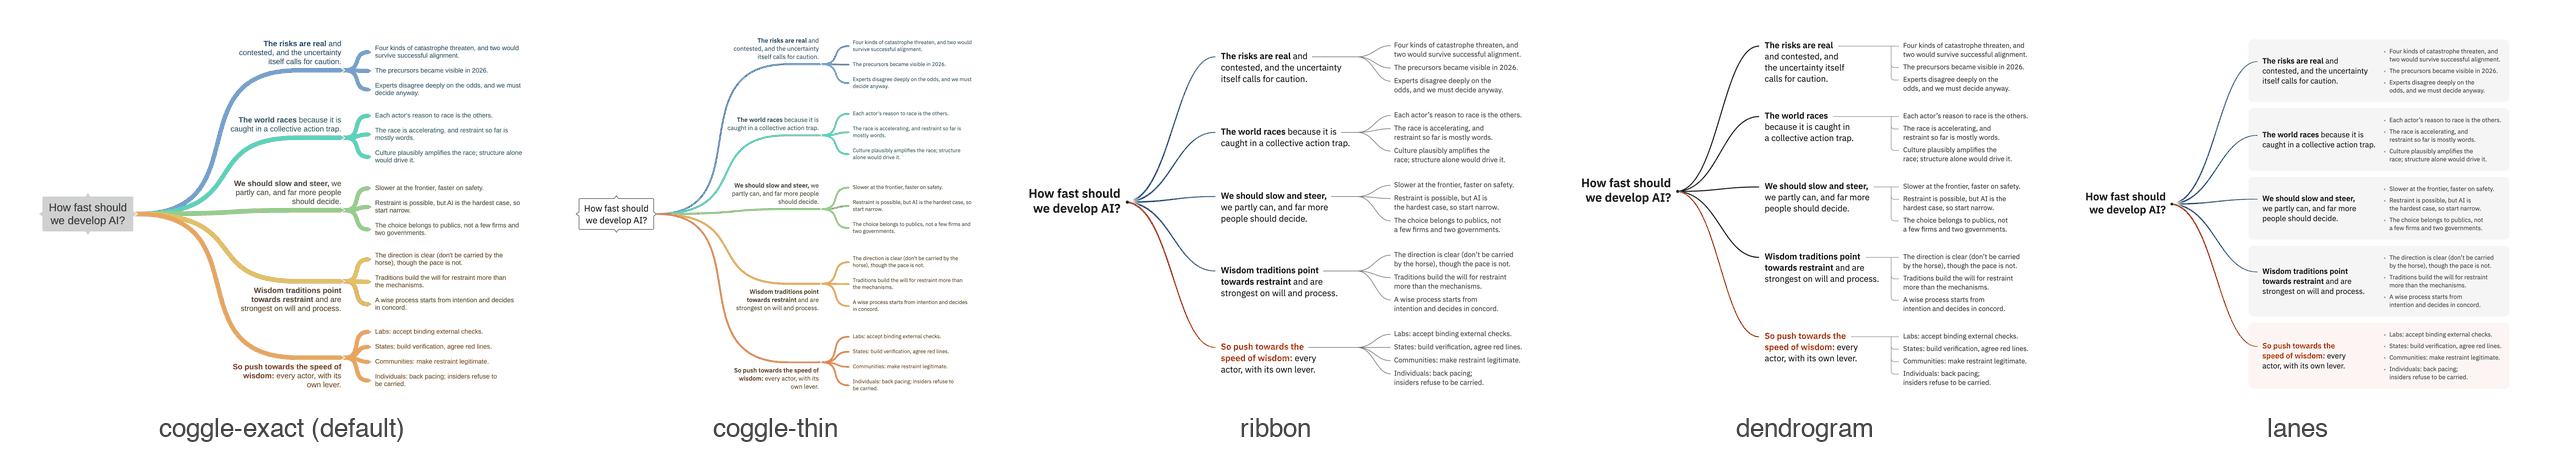
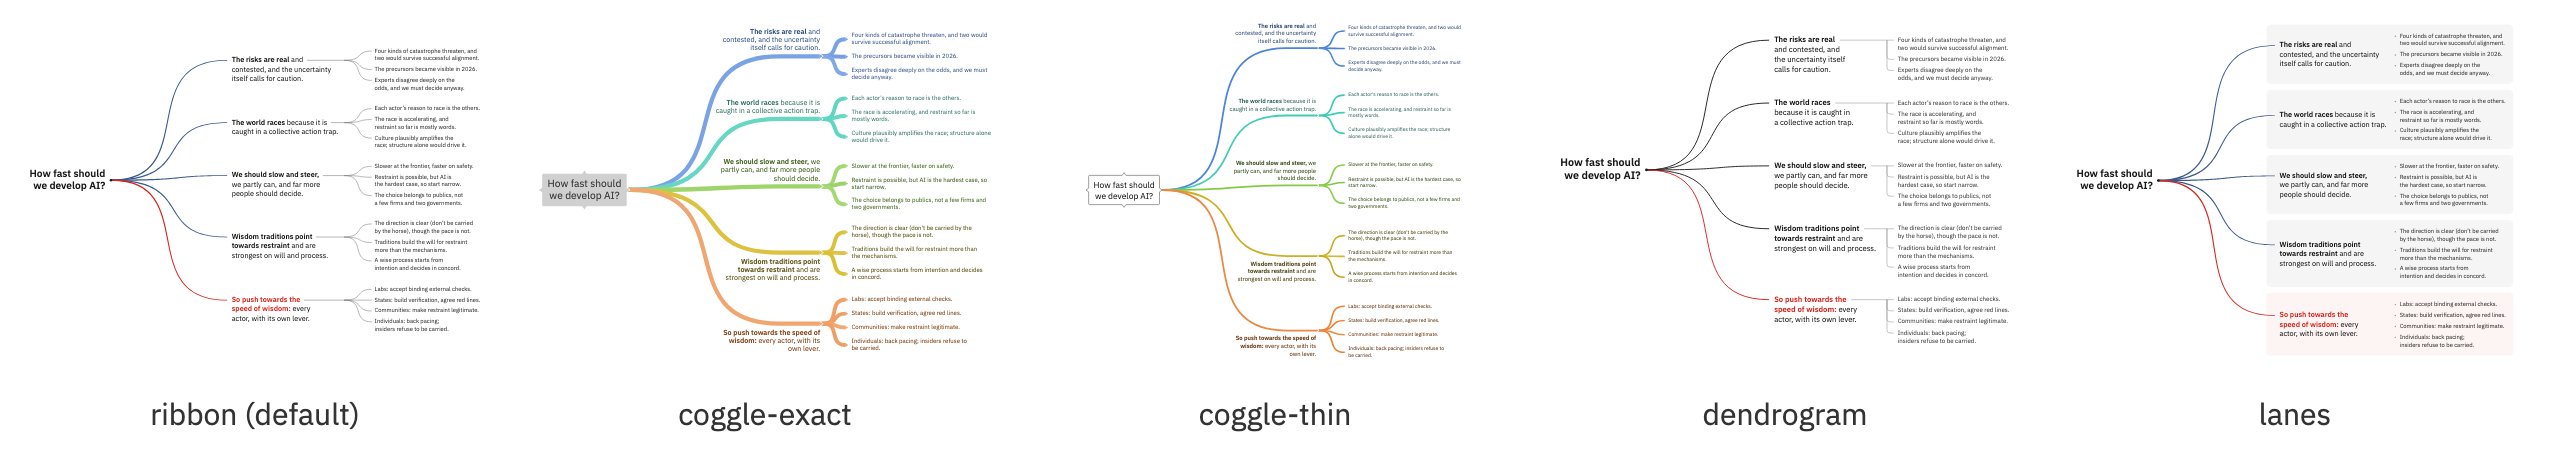
Ribbon is the default style; --curve coggle the default curve, over the curvature rule's run
- ribbon, dendrogram, lanes: --curve coggle by default; the old curve is --curve ribbon (alias current).
  The level-1 run follows the curvature rule (shared.js coggleReach): at least 320 px at the 20 px
  level-1 size, lengthened to keep the outer aspect <= 1.3 (capped at 480), never past aspect 3.
  Q2 no longer has vertical "pipe" outer branches (1225 -> 1335 px wide).
- CLI: no --style renders ribbon (named after the tree); coggle-only flags without a coggle style
  are usage errors; a note when a tree is deeper than the two levels these styles draw.
- README hero (hero-ribbon.png) and styles strip regenerated; SKILL.md, --help, Wise AI brief,
  curvature note updated. Bead tree_render-5q0.8 closed; three-level trees: tree_render-5q0.9.

Claude-Session: https://claude.ai/code/session_01KA2bCsgAQ4qzr35Ys3Hhik

diff --git a/skills/tree-render/render/bin/render.js b/skills/tree-render/render/bin/render.js
@@ -22,9 +22,9 @@ const USAGE = `Usage: tree-render <tree.md|tree.json> [--style NAME] [options]
                   the older canvas engine and styles (framed cards, carousel, interactive page)
 
 Styles (--style NAME):
-  coggle-exact   the default: Coggle's look, thick coloured S-curves, grey root box (Arimo)
+  ribbon         the default: bold root on a dot, tapered ribbons to each answer, hairlines to its points
+  coggle-exact   Coggle's look, thick coloured S-curves, grey root box (Arimo)
   coggle-thin    Coggle's layout with IBM Plex Sans, half-width branches, outlined root
-  ribbon         bold root on a dot, tapered ribbons to each answer, hairlines to its points
   dendrogram     bold root on a dot, dark S-curves to each answer, rounded elbows to its points
   lanes          ribbon's root and ribbons, each answer and its points on a soft grey band
   (other names in render/styles/ are legacy: see --help legacy)
@@ -55,9 +55,11 @@ Options (ribbon, dendrogram, lanes):
   --root-style dot|centre|box|outline
                         the root question: right-aligned on a dot (default), centred on the dot,
                         in a light filled box (also --root-box) or a thin outlined box
-  --curve current|coggle|coggle-l1
-                        the branch curve: current (default), Coggle's cubic (level-1 branches and
-                        ribbon's hairlines), or Coggle's for the level-1 branches only
+  --curve coggle|coggle-l1|ribbon
+                        the branch curve: coggle (default: Coggle's S for the level-1 branches and
+                        ribbon's hairlines, over a run long enough to keep Coggle's corners),
+                        coggle-l1 (Coggle's for the level-1 branches only), or ribbon (the older,
+                        narrower S; also --curve current)
 
 Exit codes: 0 ok; 1 a branch crosses a label or text overlaps (shorten the text and render
 again); 2 usage error; 3 the PNG needs Chrome or Chromium (set CHROME=/path, or use --no-png).
@@ -96,8 +98,8 @@ needs a browser.
 
 const VALUE_FLAGS = ['root-style', 'style', 'name', 'format', 'theme', 'view', 'labels', 'depth', 'root', 'kicker', 'footer', 'out', 'scale', 'state', 'emit', 'hue', 'font', 'sizes', 'root-run', 's-run', 'palette', 'curve'];
 const BOOL_FLAGS = ['png', 'no-png', 'html', 'help', 'allow-collisions', 'root-box'];
-// Flags of the framed canvas render; with none of them (and no --style) a tree renders statically in the default style.
-// --depth is not one: it also applies to the coggle styles, so the canvas render needs --format (or another flag here) for it.
+// Flags of the framed canvas render; with none of them (and no --style) a tree renders statically in the default style
+// (ribbon). --depth is not one: it applies to the coggle styles, so the canvas render needs --format (or another flag here).
 const CANVAS_FLAGS = ['format', 'theme', 'view', 'labels', 'root', 'kicker', 'footer', 'state', 'hue', 'html'];
 
 class UsageError extends Error {}
@@ -191,11 +193,13 @@ async function main(argv) {
   }
 
   const tree = readTree(file);
-  if (COGGLE_STYLE_NAMES.includes(a.style) || (!a.style && !sub && !CANVAS_FLAGS.some(k => a[k] != null))) {
+  // No --style (and no canvas flags): the default style, ribbon, named after the tree file.
+  const defaultStyle = !a.style && !sub && !CANVAS_FLAGS.some(k => a[k] != null);
+  if (COGGLE_STYLE_NAMES.includes(a.style)) {
     const { renderCoggle } = await import('../src/coggle/render.js');
     const { FONTS } = await import('../src/coggle/styles.js');
     const { findCollisions } = await import('../src/coggle/collide.js');
-    const style = a.style || 'coggle-exact';
+    const style = a.style;
     if (a.font != null && !FONTS[a.font]) throw new UsageError(`unknown font "${a.font}" (have: ${Object.keys(FONTS).join(', ')})`);
     let sizes;
     if (a.sizes != null) {
@@ -208,7 +212,7 @@ async function main(argv) {
     if (a['s-run'] != null && !(+a['s-run'] > 0)) throw new UsageError('--s-run takes a run in px (e.g. 300)');
     if (a['s-run'] != null && a['root-run'] === 'coggle') throw new UsageError('--s-run needs --root-run short (the default)');
     if (a.palette != null && !PALETTE_NAMES.includes(a.palette)) throw new UsageError(`unknown palette "${a.palette}" (have: ${PALETTE_NAMES.join(', ')})`);
-    const r = await renderCoggle(tree, { style, font: a.font, sizes, depth: a.depth != null ? +a.depth : undefined, rootRun: a['root-run'], sRun: a['s-run'] != null ? +a['s-run'] : undefined, palette: a.palette, outDir: a.out || '.', name: a.name || (a.style ? undefined : path.basename(file).replace(/\.(md|json|markdown)$/i, '')), png: !a['no-png'], scale: +(a.scale || 2), avoidCollisions: !a['allow-collisions'] });
+    const r = await renderCoggle(tree, { style, font: a.font, sizes, depth: a.depth != null ? +a.depth : undefined, rootRun: a['root-run'], sRun: a['s-run'] != null ? +a['s-run'] : undefined, palette: a.palette, outDir: a.out || '.', name: a.name, png: !a['no-png'], scale: +(a.scale || 2), avoidCollisions: !a['allow-collisions'] });
     const b = r.L.bounds;
     const hits = a['allow-collisions'] ? [] : findCollisions(r.L);
     const extra = [a.font && `font ${a.font}`, sizes && `sizes ${sizes.join('/')}`, a.depth != null && `depth ${a.depth}`, a['root-run'] && `root run ${a['root-run']}`, a['s-run'] && `S-run ${a['s-run']}`, a.palette && `palette ${a.palette}`].filter(Boolean).join(' · ');
@@ -216,15 +220,20 @@ async function main(argv) {
     for (const h of hits) console.log(`  error overlap: branch ${h.branch} crosses label ${h.label}`);
     return hits.length ? 1 : 0;
   }
-  if (STYLE2_NAMES.includes(a.style)) {
+  if (STYLE2_NAMES.includes(a.style) || defaultStyle) {
+    const style = a.style || 'ribbon';
     const { renderStyle2 } = await import('../src/styles2/index.js');
+    const { CURVES } = await import('../src/styles2/shared.js');
+    for (const k of ['sizes', 'depth', 'root-run', 's-run', 'allow-collisions']) if (a[k] != null) throw new UsageError(`--${k} works with --style coggle-exact or coggle-thin only`);
+    if (a.curve != null && !CURVES.includes(a.curve)) throw new UsageError(`unknown --curve "${a.curve}" (have: ${CURVES.join(', ')})`);
     const { FONTS } = await import('../src/coggle/styles.js');
     if (a.palette != null && !PALETTE_NAMES.includes(a.palette)) throw new UsageError(`unknown palette "${a.palette}" (have: ${PALETTE_NAMES.join(', ')})`);
     if (a.font != null && !FONTS[a.font]) throw new UsageError(`unknown font "${a.font}" (have: ${Object.keys(FONTS).join(', ')})`);
-    const r = await renderStyle2(tree, { style: a.style, outDir: a.out || '.', name: a.name, png: !a['no-png'], scale: +(a.scale || 2), rootBox: a['root-box'] || a['root-style'] === 'box' ? true : a['root-style'] === 'outline' ? 'outline' : false, rootCentre: a['root-style'] === 'centre', palette: a.palette, font: a.font, curve: a.curve });
+    const r = await renderStyle2(tree, { style, outDir: a.out || '.', name: a.name || (a.style ? undefined : path.basename(file).replace(/\.(md|json|markdown)$/i, '')), png: !a['no-png'], scale: +(a.scale || 2), rootBox: a['root-box'] || a['root-style'] === 'box' ? true : a['root-style'] === 'outline' ? 'outline' : false, rootCentre: a['root-style'] === 'centre', palette: a.palette, font: a.font, curve: a.curve });
     const [, w, h] = /width="(\d+)" height="(\d+)"/.exec(r.svg);
-    console.log(`${Object.values(r.files).map(f => path.basename(f)).join(', ')}  style ${a.style}${a['root-box'] ? ' (root box)' : a['root-style'] ? ` (root ${a['root-style']})` : ''}${a.palette ? ' · palette ' + a.palette : ''}${a.font ? ' · font ' + a.font : ''}${a.curve ? ' · curve ' + a.curve : ''} · ${w}×${h} · ${r.issues.length ? 'FAILED' : 'ok'}`);
+    console.log(`${Object.values(r.files).map(f => path.basename(f)).join(', ')}  style ${style}${a['root-box'] ? ' (root box)' : a['root-style'] ? ` (root ${a['root-style']})` : ''}${a.palette ? ' · palette ' + a.palette : ''}${a.font ? ' · font ' + a.font : ''}${a.curve ? ' · curve ' + a.curve : ''} · ${w}×${h} · ${r.issues.length ? 'FAILED' : 'ok'}`);
     for (const x of r.issues) console.log('  error overlap: ' + x);
+    if (r.dropped) console.log(`  note: ${style} draws two levels below the root; ${r.dropped} deeper node${r.dropped > 1 ? 's are' : ' is'} not drawn (--style coggle-exact draws every level)`);
     return r.issues.length ? 1 : 0;
   }
   if (a.style || (!sub && !CANVAS_FLAGS.some(k => a[k] != null))) {

diff --git a/skills/tree-render/render/test/styles2.test.js b/skills/tree-render/render/test/styles2.test.js
@@ -69,16 +69,17 @@ test('root style: centred lines on the dot, or a thin outlined box (no fill); bo
 });
 
 // curve 'coggle' (bead tree_render-5q0.8): Coggle's cubic for the level-1 branches (and ribbon's hairlines).
-test('curve coggle: every fixture renders with no overlaps; the default is unchanged; level-1 branches use Coggle\'s control points', async () => {
+test('curve coggle: every fixture renders with no overlaps; coggle is the default, ribbon (alias current) the older S; level-1 branches use Coggle\'s control points', async () => {
   const { branchControlPoints } = await import('../src/coggle/geometry.js');
   for (const style of STYLE2_NAMES) {
-    for (const f of fixtures) for (const curve of ['coggle', 'coggle-l1']) {
+    for (const f of fixtures) for (const curve of ['coggle', 'coggle-l1', 'ribbon']) {
       const cv = STYLES2[style](parse(readFixture(f)), { curve });
       assert.deepEqual(cv.check(), [], `${style} ${curve} ${f}`);
     }
-    const def = drawStyle2(Q2, style).toSVG(), cur = drawStyle2(Q2, style, { curve: 'current' }).toSVG();
-    assert.equal(def, cur, style);
-    assert.notEqual(drawStyle2(Q2, style, { curve: 'coggle' }).toSVG(), def, style);
+    const def = drawStyle2(Q2, style).toSVG();
+    assert.equal(drawStyle2(Q2, style, { curve: 'coggle' }).toSVG(), def, style);
+    assert.equal(drawStyle2(Q2, style, { curve: 'current' }).toSVG(), drawStyle2(Q2, style, { curve: 'ribbon' }).toSVG(), style);
+    assert.notEqual(drawStyle2(Q2, style, { curve: 'ribbon' }).toSVG(), def, style);
     assert.throws(() => drawStyle2(Q2, style, { curve: 'wiggly' }), /unknown curve/);
   }
   // dendrogram strokes the centre line itself: its level-1 paths are exactly Coggle's cubic from the root dot.
@@ -90,8 +91,22 @@ test('curve coggle: every fixture renders with no overlaps; the default is uncha
     assert.ok(Math.abs(p[1].x - n[0]) < 0.01 && Math.abs(p[2].x - n[2]) < 0.01, 'control points');
     assert.ok(Math.abs(n[1] - from.y) < 0.01 && Math.abs(n[3] - to.y) < 0.01, 'horizontal tangents');
   }
-  // ribbon: the hairlines change only with 'coggle', not 'coggle-l1'.
+  // ribbon: the hairlines are Coggle's with 'coggle', the older S with 'coggle-l1' (the hub is in the same place).
   const hairs = (o) => drawStyle2(Q2, 'ribbon', o).els.filter(e => /stroke-width="1.5"/.test(e)).join('');
-  assert.equal(hairs({ curve: 'coggle-l1' }), hairs({}));
-  assert.notEqual(hairs({ curve: 'coggle' }), hairs({}));
+  assert.notEqual(hairs({ curve: 'coggle-l1' }), hairs({}));
+  assert.equal(hairs({ curve: 'coggle' }), hairs({}));
+});
+
+test('curve coggle: the level-1 run follows the curvature rule (floor, aspect, cap, R_MAX)', async () => {
+  const { coggleReach, REACH } = await import('../src/styles2/shared.js');
+  assert.equal(coggleReach(100), REACH.floor);                        // short rise: the floor
+  assert.equal(coggleReach(100, 25), REACH.floor * 25 / 20);          // scaled with the level-1 size
+  assert.equal(coggleReach(520), 520 / REACH.aspect);                 // outer aspect held at REACH.aspect
+  assert.equal(coggleReach(1000), REACH.cap * REACH.floor);           // lengthening capped
+  assert.equal(coggleReach(2400), 800);                               // but never past aspect 3
+  // In a render: the root dot to the level-1 dots is that run (dendrogram strokes the centre line itself).
+  const paths = [...drawStyle2(Q2, 'dendrogram').els.join('').matchAll(/<path d="M ([-\d.]+) ([-\d.]+) C ([-\d. ]+)"/g)];
+  const runs = paths.map(m => +m[3].trim().split(/\s+/)[4] - +m[1]), rises = paths.map(m => Math.abs(+m[3].trim().split(/\s+/)[5] - +m[2]));
+  for (const r of runs) assert.ok(r >= REACH.floor - 0.01, `run ${r}`);
+  assert.ok(Math.max(...rises) / runs[0] <= REACH.aspect + 1e-6);
 });

diff --git a/skills/tree-render/render/src/styles2/ribbon.js b/skills/tree-render/render/src/styles2/ribbon.js
@@ -6,12 +6,13 @@
 // lanes: ribbon's root, ribbons and palette (no dot at the ribbon's end); each subtree sits on a soft
 // neutral band (red for the accent) across both text columns; no level-2 connectors, a small grey dot before
 // each point instead. `hue` (mock-up D-hue only): one restrained hue per branch. `mono` (mock-up A-mono only):
-// charcoal ribbons. `curve`: 'current' (sCurve), 'coggle' (Coggle's cubic for the ribbons' centre lines and the
-// hairlines, shared.js coggleCurve) or 'coggle-l1' (ribbons only). `palette` (palettes.js): its colours instead of slate, ink and red. `rootBox`: the root in a light Coggle-like box (shared.js placeRoot) instead of on a dot.
+// charcoal ribbons. `curve`: 'coggle' (the default: Coggle's cubic for the ribbons' centre lines and the hairlines,
+// shared.js coggleCurve, over a run set by the curvature rule, coggleReach), 'coggle-l1' (ribbons only) or 'ribbon'
+// (alias 'current': the older sCurve). `palette` (palettes.js): its colours instead of slate, ink and red. `rootBox`: the root in a light Coggle-like box (shared.js placeRoot) instead of on a dot.
 import { Canvas, runsFor, xMiddleOf, sampleCubic } from '../directions/common.js';
 import { PALETTE, adjust, darken } from '../coggle/colour.js';
 import { paletteText, ensureContrast } from '../palettes.js';
-import { RED, accentIndex, balanced, sCurve, cubicD, ribbon, spreads, placeRoot, rootFor, checkCurve, coggleCurve, segsD, segsPts, ribbonAlong } from './shared.js';
+import { RED, accentIndex, balanced, sCurve, cubicD, ribbon, spreads, placeRoot, rootFor, checkCurve, coggleCurve, coggleReach, segsD, segsPts, ribbonAlong } from './shared.js';
 
 const INK = '#1a1a1a';
 const ROOT = { size: 28, wrap: 300, dot: 3.5, gap: 12 };
@@ -23,9 +24,9 @@ const HAIR = { width: 1.5, colour: '#7a7a7a', hub: 16, span: 84, end: 8, ruleGap
 const LANE_HUES = [0, 1, 6, 2, 7, 3].map(i => PALETTE[i]);
 const LANE = { pad: 20, radius: 12, alpha: 0.07, accentAlpha: 0.05, pointDot: 2, pointGap: 10, colGap: 36, groupGap: 56 };
 
-export function render(tree, { mono = false, lanes = false, hue = false, rootBox = false, rootCentre = false, palette: P = null, curve = 'current' } = {}) {
-  checkCurve(curve);
-  const cogL1 = curve !== 'current', cogHair = curve === 'coggle';
+export function render(tree, { mono = false, lanes = false, hue = false, rootBox = false, rootCentre = false, palette: P = null, curve } = {}) {
+  curve = checkCurve(curve);
+  const cogL1 = curve !== 'ribbon', cogHair = curve === 'coggle';
   const cv = new Canvas(P ? { bg: P.bg } : {});
   const acc = accentIndex(tree.root);
   const groupGap = lanes ? LANE.groupGap : 36;
@@ -57,7 +58,9 @@ export function render(tree, { mono = false, lanes = false, hue = false, rootBox
   let y = 0;
   for (const g of groups) { g.top = y; g.mid = y + g.h / 2; g.bTop = g.mid - g.b.h / 2; g.dotY = xMiddleOf(g.b, g.bTop); y += g.h + groupGap; }
   const span = groups[groups.length - 1].dotY - groups[0].dotY;
-  const reach = Math.max(200, Math.min(300, 0.3 * span));
+  // The ribbon curve: its own reach. Coggle's: the curvature rule's (shared.js coggleReach), from the root's middle.
+  const rise = span / 2;
+  const reach = cogL1 ? coggleReach(rise, L1.size) : Math.max(200, Math.min(300, 0.3 * span));
 
   // Root: centred on the point every ribbon leaves (a dot, or the right edge of the root box).
   const root = placeRoot(cv, tree.root.text, (groups[0].dotY + groups[groups.length - 1].dotY) / 2, { ...rootFor(tree, ROOT, L1.size), box: rootBox, centre: rootCentre, ink: P ? ensureContrast(P.root.text, P.bg) : INK, ...(P ? { boxFill: P.root.fill } : {}) });

diff --git a/skills/tree-render/render/src/styles2/dendrogram.js b/skills/tree-render/render/src/styles2/dendrogram.js
@@ -3,11 +3,11 @@
 // with `rootBox`, in a light box whose right edge the curves leave), and
 // the level-1 answers leave it on 2.5 px S-curves (no end dots: 2026-11-13); each answer's points hang off rounded
 // elbows (8 px corners, 1.25 px grey). The first point sits on its answer's baseline, so answer, leader and
-// first point read as one line. `curve: 'coggle'` (or 'coggle-l1'): Coggle's cubic for the level-1 curves (shared.js
-// coggleCurve). Red marks the accent branch's curve, dot and lead.
+// first point read as one line. `curve: 'coggle'` (the default, or 'coggle-l1'): Coggle's cubic for the level-1 curves
+// (shared.js coggleCurve) over the curvature rule's run (coggleReach); 'ribbon' (alias 'current'): the older sCurve. Red marks the accent branch's curve, dot and lead.
 import { Canvas, runsFor, xMiddleOf, sampleCubic } from '../directions/common.js';
 import { paletteText, ensureContrast } from '../palettes.js';
-import { RED, accentIndex, balanced, sCurve, cubicD, spreads, placeRoot, rootFor, checkCurve, coggleCurve, segsD, segsPts } from './shared.js';
+import { RED, accentIndex, balanced, sCurve, cubicD, spreads, placeRoot, rootFor, checkCurve, coggleCurve, coggleReach, segsD, segsPts } from './shared.js';
 
 const INK = '#1a1a1a', CURVE = '#222', ELBOW = '#888';
 const ROOT = { size: 28, wrap: 280, dot: 3.5, gap: 12 };
@@ -16,8 +16,8 @@ const L2 = { size: 16, lh: 21, wrap: 320, fill: '#333', gap: 8, width: 1.25 };
 const EL = { leaderGap: 12, stemGap: 28, tick: 18, textGap: 10, r: 8 };
 const GROUP_GAP = 40, SPREAD = 10;
 
-export function render(tree, { rootBox = false, rootCentre = false, palette: P = null, curve = 'current' } = {}) {
-  checkCurve(curve);
+export function render(tree, { rootBox = false, rootCentre = false, palette: P = null, curve } = {}) {
+  curve = checkCurve(curve);
   const cv = new Canvas(P ? { bg: P.bg } : {});
   const acc = accentIndex(tree.root);
   // A palette (palettes.js): its branch colours cycled over the non-accent answers, its accent, ink and hairlines.
@@ -42,7 +42,7 @@ export function render(tree, { rootBox = false, rootCentre = false, palette: P =
     y = bottom + GROUP_GAP;
   }
   const span = groups[groups.length - 1].y - groups[0].y;
-  const reach = Math.max(180, Math.min(260, 0.28 * span));
+  const reach = curve !== 'ribbon' ? coggleReach(span / 2, L1.size) : Math.max(180, Math.min(260, 0.28 * span));
 
   const root = placeRoot(cv, tree.root.text, (groups[0].y + groups[groups.length - 1].y) / 2, { ...rootFor(tree, ROOT, L1.size), box: rootBox, centre: rootCentre, ink: P ? ensureContrast(P.root.text, P.bg) : INK, ...(P ? { boxFill: P.root.fill } : {}) });
   const rootDot = root.from;
@@ -53,7 +53,7 @@ export function render(tree, { rootBox = false, rootCentre = false, palette: P =
   const order = groups.map((g, i) => i).sort((a, b) => groups[a].red - groups[b].red);
   for (const i of order) {
     const g = groups[i], to = { x: l1Dot, y: g.y };
-    if (curve !== 'current') { const s = coggleCurve(rootDot, to); cv.path(segsD(s), segsPts(s, 24), { stroke: g.curve, width: L1.width }); continue; }
+    if (curve !== 'ribbon') { const s = coggleCurve(rootDot, to); cv.path(segsD(s), segsPts(s, 24), { stroke: g.curve, width: L1.width }); continue; }
     const p = sCurve(rootDot, to, { spread: sp[i] });
     cv.path(cubicD(p), sampleCubic(...p), { stroke: g.curve, width: L1.width });
   }

diff --git a/skills/tree-render/render/src/styles2/shared.js b/skills/tree-render/render/src/styles2/shared.js
@@ -1,7 +1,7 @@
 // styles2/shared.js: helpers shared by the ribbon, dendrogram and lanes styles (and the round-2 mock-ups in
 // src/directions/): the accent branch, the horizontal-tangent S-curve, a tapered filled ribbon along it, and the root.
 import { sampleCubic, block, typo, xMiddleOf } from '../directions/common.js';
-import { branchSegments } from '../coggle/geometry.js';
+import { branchSegments, R_MAX } from '../coggle/geometry.js';
 
 export const RED = '#d7261e';
 const f = (q) => `${q.x.toFixed(2)} ${q.y.toFixed(2)}`;
@@ -99,10 +99,29 @@ export function placeRoot(cv, text, y, { size, wrap, dot, gap, box = false, cent
 // column, so there is no label to clear and no reason for a shorter S-run); branchSegments lengthens nothing then,
 // and only inserts a vertical when a branch rises more than R_MAX × its run. Short branches (chord < 75 px) get
 // Coggle's pull-in. Returns segments ({ c } cubics, { l } lines).
-export const CURVES = ['current', 'coggle', 'coggle-l1'];
-export function checkCurve(curve) {
+// 'coggle' is the default (Rufus, 2026-11-14: Coggle's curves are better). 'ribbon' is the styles' own older S
+// (sCurve, a fixed shape whatever the rise); 'current' is its old name, kept as an alias.
+export const CURVES = ['coggle', 'coggle-l1', 'ribbon', 'current'];
+export const DEFAULT_CURVE = 'coggle';
+export function checkCurve(curve = DEFAULT_CURVE) {
   if (!CURVES.includes(curve)) throw new Error(`unknown curve "${curve}" (have: ${CURVES.join(', ')})`);
-  return curve;
+  return curve === 'current' ? 'ribbon' : curve;
+}
+
+// The level-1 run (root dot to the level-1 dots) for Coggle's curve, by the curvature rule
+// (docs/design/references/coggle-curvature.md): Coggle's corners are about a third of the run the S is drawn over,
+// whatever the rise, so the run sets the look. Nothing sits between the root and the level-1 column, so the whole
+// run is the S-run (no flat tail). The run is
+//   - at least the floor, REACH.floor px at these styles' level-1 size (REACH.l1Size), scaled with the level-1 size;
+//   - long enough that the outermost branch's aspect (rise / run) is at most REACH.aspect (Coggle's own look; at
+//     aspect 1.5–1.7 the outer branches read as vertical pipes with two tight corners: q2, 2026-11-14), but this
+//     lengthening stops at REACH.cap × the floor, so a very tall list does not push the text far out;
+//   - and always long enough that the aspect is at most R_MAX (3): past that the S leans back (geometry.js).
+// `rise`: the largest |dy| from the root to a level-1 dot.
+export const REACH = { floor: 320, l1Size: 20, aspect: 1.3, cap: 1.5 };
+export function coggleReach(rise, l1Size = REACH.l1Size) {
+  const floor = REACH.floor * (l1Size / REACH.l1Size);
+  return Math.max(floor, Math.min(rise / REACH.aspect, REACH.cap * floor), rise / R_MAX);
 }
 export const coggleCurve = (from, to) => branchSegments(from, to, { sRun: Math.abs(to.x - from.x) });
 export const segsD = (segs) => segs.map((g, i) => (i ? '' : `M ${f((g.c || g.l)[0])} `) + (g.c ? `C ${f(g.c[1])} ${f(g.c[2])} ${f(g.c[3])}` : `L ${f(g.l[1])}`)).join(' ');

diff --git a/skills/tree-render/render/src/styles2/index.js b/skills/tree-render/render/src/styles2/index.js
@@ -11,14 +11,15 @@ import { FONTS } from '../coggle/styles.js';
 export const STYLES2 = { ribbon: ribbon.ribbon, dendrogram, lanes: ribbon.lanes };
 export const STYLE2_NAMES = Object.keys(STYLES2);
 
-// Draws tree in `style`; options: { rootBox (true | 'outline'), rootCentre, palette, curve ('current' | 'coggle' | 'coggle-l1') } (palette: a PALETTES object). Returns the Canvas.
+// Draws tree in `style`; options: { rootBox (true | 'outline'), rootCentre, palette, curve ('coggle' (default) | 'coggle-l1' | 'ribbon' (alias 'current')) } (palette: a PALETTES object). Returns the Canvas.
 export function drawStyle2(tree, style, opts = {}) {
   const f = STYLES2[style];
   if (!f) throw new Error(`unknown style "${style}" (have: ${STYLE2_NAMES.join(', ')})`);
   return f(tree, opts);
 }
 
-// tree → <outDir>/<name>.svg (+ .png at `scale`). Returns { canvas, svg, files, issues } (issues: overlaps found).
+// tree → <outDir>/<name>.svg (+ .png at `scale`). Returns { canvas, svg, files, issues, dropped } (issues: overlaps
+// found; dropped: how many nodes sit more than two levels below the root, which these styles do not draw).
 // `palette`: a key of PALETTES (palettes.js); `font`: a key of the coggle FONTS (default IBM Plex Sans).
 export async function renderStyle2(tree, { style, outDir = '.', name, png = true, scale = 2, rootBox = false, rootCentre = false, palette, font, curve } = {}) {
   const P = getPalette(palette);
@@ -38,5 +39,11 @@ export async function renderStyle2(tree, { style, outDir = '.', name, png = true
     svgToPng(svg, { out: base + '.png', scale });
     files.png = base + '.png';
   }
-  return { canvas, svg, files, issues: canvas.check() };
+  return { canvas, svg, files, issues: canvas.check(), dropped: deeperThan(tree.root, 2) };
+}
+
+// Nodes more than `levels` levels below `node` (these styles draw the root and two levels under it).
+export function deeperThan(node, levels) {
+  const all = (n) => n.children.reduce((s, c) => s + 1 + all(c), 0);
+  return levels <= 0 ? all(node) : node.children.reduce((s, c) => s + deeperThan(c, levels - 1), 0);
 }

diff --git a/skills/tree-render/render/test/cli.test.js b/skills/tree-render/render/test/cli.test.js
@@ -125,11 +125,21 @@ test('--style: writes <out>/<name>.svg, a 2× PNG and the report', { skip }, () 
   assert.equal(JSON.parse(fs.readFileSync(out('opts/q2.report.json'), 'utf8')).ok, true);
 });
 
-test('no --style and no format flags: a static render in the default style, named after the tree', () => {
+test('no --style and no format flags: a render in the default style (ribbon), named after the tree', () => {
   const r = cli(path.join(FIXTURES, 'v01-q2.json'), '--no-png', '--out', out('def'));
   assert.equal(r.code, 0, r.err + r.out);
   const svg = fs.readFileSync(out('def/v01-q2.svg'), 'utf8');
-  assert.match(svg, /data-style="coggle-exact"/);
+  assert.match(r.out, /v01-q2\.svg  style ribbon · \d+×\d+ · ok/);
+  assert.match(svg, /^<svg /);
+  // coggle-only flags without --style are usage errors (the default is ribbon)
+  const d = cli(path.join(FIXTURES, 'v01-q2.json'), '--sizes', '22,17,15,14', '--no-png', '--out', out('def'));
+  assert.equal(d.code, 2);
+  assert.match(d.err, /--sizes works with --style coggle-exact or coggle-thin only/);
+  // a three-level tree: drawn two levels deep, with a note saying how many nodes are left out
+  fs.writeFileSync(out('def/deep.md'), '- Root?\n  - A\n    - A1\n      - A1a\n      - A1b\n  - B\n    - B1\n');
+  const t = cli(out('def/deep.md'), '--no-png', '--out', out('def'));
+  assert.equal(t.code, 0, t.err + t.out);
+  assert.match(t.out, /note: ribbon draws two levels below the root; 2 deeper nodes are not drawn/);
 
   // a named style keeps its own name as the file name; river is a named style
   const v = cli(path.join(FIXTURES, 'v01-q2.json'), '--style', 'river', '--no-png', '--out', out('def'));

diff --git a/skills/tree-render/SKILL.md b/skills/tree-render/SKILL.md
@@ -31,15 +31,15 @@ From `skills/tree-render/render/`:
 node bin/render.js tree.md --out out
 ```
 
-This writes `out/tree.svg` and `out/tree.png` (at 2x) in the default style, `coggle-exact`. With `--style NAME` the files are named after the style unless you add `--name NAME`.
+This writes `out/tree.svg` and `out/tree.png` (at 2x) in the default style, `ribbon`. With `--style NAME` the files are named after the style unless you add `--name NAME`.
 
 Pick a style by purpose:
 
 | Style | Look | Use when |
 | --- | --- | --- |
-| `coggle-exact` (default) | Coggle's look: thick coloured S-curves, grey root box | Most cases |
+| `ribbon` (default) | Bold root on a dot, tapered ribbons, hairlines to the leaves | Most cases; a host site's own palette (with `--palette`) |
+| `coggle-exact` | Coggle's look: thick coloured S-curves, grey root box | Coggle's colourful look; trees more than two levels deep |
 | `coggle-thin` | The same layout in IBM Plex Sans, thin branches, outlined root | A quieter page |
-| `ribbon` | Bold root on a dot, tapered ribbons, hairlines to the leaves | A host site's own palette (with `--palette`) |
 | `dendrogram` | Dark S-curves, rounded elbows to the leaves | Print, or a sober look |
 | `lanes` | Like `ribbon`, each branch on a soft grey band | Many leaves per branch |
 
@@ -54,6 +54,7 @@ Main options (the full list is in `node bin/render.js --help`):
 - `--palette wise-ink|wise-print`: the Wisdom and AI site's colours, with a red accent on the "So" branch. Without it each style keeps its own colours.
 - `--font arimo|plex|atkinson|bricolage|merriweather|plexmono|quattro`: set the text in another embedded font.
 - `--root-style dot|centre|box|outline` (`ribbon`, `dendrogram`, `lanes`): how the root question is drawn.
+- `--curve coggle|coggle-l1|ribbon` (`ribbon`, `dendrogram`, `lanes`): the main branches' curve. `coggle` (default) is Coggle's S over a run of at least 320 px, longer for a tall tree so the outer branches stay soft S's, not vertical pipes; `ribbon` is the older, narrower curve. These styles draw two levels below the root and print a note if a tree has more.
 - `--depth N` (`coggle-exact`, `coggle-thin`): show only N levels below the root.
 - `--sizes 22,17,15,14` (`coggle-exact`, `coggle-thin`): font sizes in px for the root, level 1, level 2 and deeper. Choose from the leaf size up: fix the leaf (14–16 px on desktop), level 1 at about 1.2x, the root at about 1.6x; leaf 15 gives `--sizes 24,18,15,15`.
 - `--root-run` and `--s-run` (`coggle-exact`, `coggle-thin`): how wide the root's branches run; see [coggle-curvature.md](../../docs/design/references/coggle-curvature.md).

diff --git a/README.md b/README.md
@@ -1,6 +1,6 @@
 # Tree render
 
-![A question tree drawn by tree-render: "How fast should we develop AI?" on the left, five coloured branches curving right to five bold-led answers, each with three or four short points.](docs/images/hero-coggle-exact.png)
+![A question tree drawn by tree-render: "How fast should we develop AI?" on the left, five tapered ribbons curving right to five bold-led answers (the last, the conclusion, in red), each with three or four short points on hairlines.](docs/images/hero-ribbon.png)
 
 Tree render turns a question or hypothesis tree into a clear, good-looking image you can put on a web page or share.
 
@@ -18,13 +18,15 @@ That writes `out/speed-of-wisdom.png` (the image above) and `out/speed-of-wisdom
 
 ## Five styles
 
-![The same tree in five styles: coggle-exact, coggle-thin, ribbon, dendrogram and lanes.](docs/images/styles-strip.png)
+![The same tree in five styles: ribbon (the default), coggle-exact, coggle-thin, dendrogram and lanes.](docs/images/styles-strip.png)
 
-`coggle-exact` is the default. Pick another with `--style`:
+`ribbon` is the default. Pick another with `--style`:
 
 ```bash
-node bin/render.js ../../../examples/speed-of-wisdom.md --style ribbon --out out
+node bin/render.js ../../../examples/speed-of-wisdom.md --style coggle-exact --out out
 ```
+
+`ribbon`, `dendrogram` and `lanes` draw their main branches with Coggle's curve (`--curve coggle`, the default) over a run long enough to keep its soft corners; `--curve ribbon` gives the older, narrower curve. They draw two levels below the root; for deeper trees use `coggle-exact`.
 
 ## Write your own tree
 

diff --git a/docs/design/references/coggle-curvature.md b/docs/design/references/coggle-curvature.md
@@ -124,3 +124,7 @@ The floor scales with the level-1 text size and with Coggle's stroke for the gro
 ## Review of the real renders (2026-11-14)
 
 On real trees the 240 floor failed: with aspect around 1.3–1.5 the steep branches read as near-vertical pipes with two tight corners (q3's outer branches, web3's pink branch, Q2's blue and teal running side by side). The floor is now 320 px at Coggle's sizes (about 35 root strokes). At 320 the curves read as Coggle's S; S-run 400 is indistinguishable from Coggle's own. v0.1 Q2 is 1034 px wide at the default against 1196 with Coggle's full run (14% narrower).
+
+## In ribbon, dendrogram and lanes (2026-11-14)
+
+`--curve coggle` is now the default in these styles (`--curve ribbon`, alias `current`, keeps the older S), and `ribbon` is the CLI's default style. Nothing sits between the root dot and the level-1 column, so the whole run is the S-run (no flat tail); `coggleReach` in `src/styles2/shared.js` sets it: at least 320 px at these styles' 20 px level-1 size (scaled with it), lengthened until the outermost branch's aspect is at most 1.3, that lengthening capped at 1.5 × the floor (480), and never short of aspect 3. With the old reach (200–300 px) Q2's outer branches had aspect about 1.7 and read as pipes; at 320 their aspect is about 1.1. Q2 (wise-ink, Bricolage) goes from 1225 to 1335 px wide. The hairlines to the level-2 points keep Coggle's cubic over their fixed 76 px run, with its short-branch pull-in, like Coggle's leaf fans.

diff --git a/docs/plans/2026-11-13-wise-ai-trees-brief.md b/docs/plans/2026-11-13-wise-ai-trees-brief.md
@@ -39,6 +39,7 @@ Paths are under `projects/wise-ai-briefing/`. The four questions, signed off 202
 - Command, for every tree: `node <renderer> <tree.json> --style ribbon --palette wise-ink --font bricolage --root-style centre --out <dir> --name <name>`.
   - Ribbon, ink and seal: ink ribbons and warm-grey hairlines on the site's paper, seal red once on the conclusion (the level-1 node marked `"accent": true`, by default the one starting "So"), text in the site's Bricolage.
   - Root: the question centred on the dot, no box (Rufus's pick). Alternative if wanted: `--root-style outline` (thin square-cornered box).
+  - Curves: `--curve coggle` is the default since 2026-11-14 (Coggle's S over a run of at least 320 px, so the outer branches are not vertical pipes; trees are about 110 px wider). Leave the flag off; `--curve ribbon` gives the older curve.
 - Sizes: the style's own (a one-level tree's root is capped at 1.15× the questions).
 - One image per tree, made for desktop; phones show the same image.
 - Output: SVG and 2× PNG. The renderer exits 1 if any text overlaps; fix that, don't ship it.
